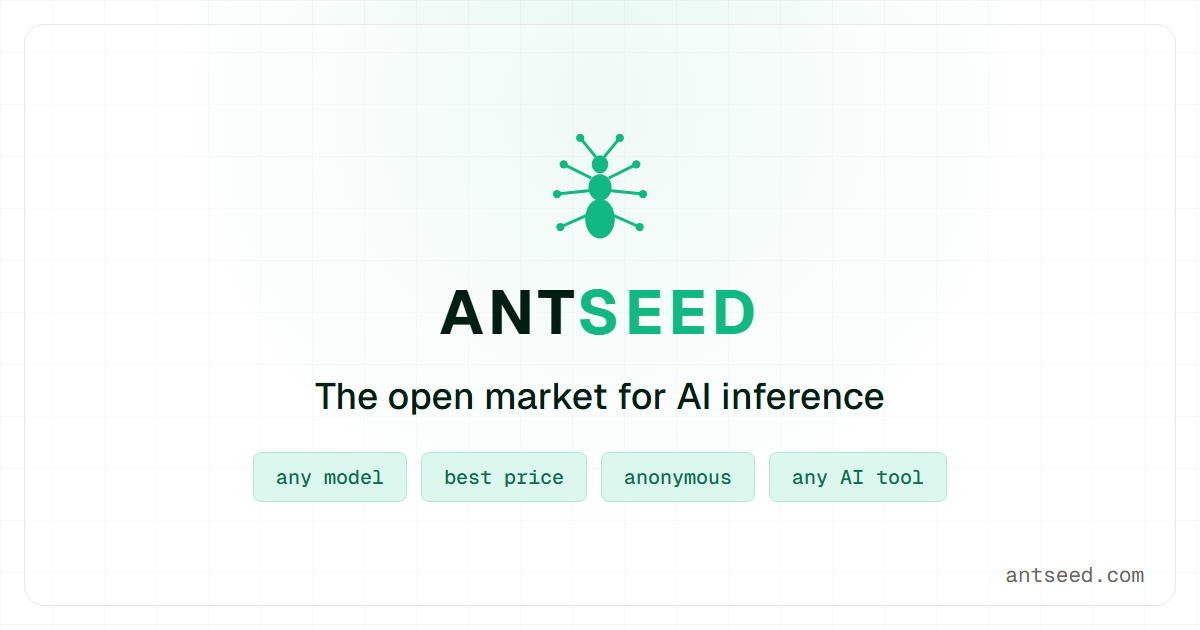
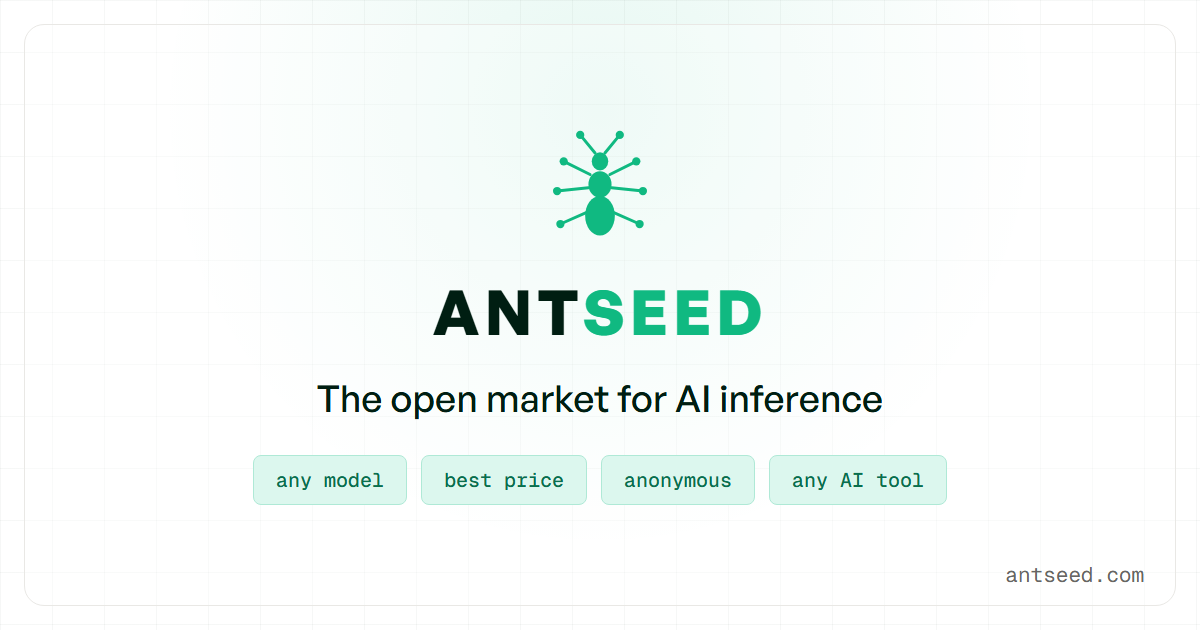
website: new share copy; let twitter:* inherit og:* per page
New share description (Marina's copy):

  AntSeed is the open market for AI inference. Every model, no middleman.
  No account, no email, no company reading your prompts or locking you
  out. Providers compete on price, you keep the tools you already use.
  Owned by no one. Available to everyone.

Applied to og:description on the homepage, where the share card is read.
At 249 characters it renders in full on Telegram and truncates on X,
LinkedIn and Facebook — accepted deliberately; Telegram is the primary
sharing channel.

`name=description` is the Google snippet and has a hard ~155 limit, so it
gets a tightened 151-char variant of the same message rather than a
mid-sentence cut.

Also removes twitter:title / twitter:description everywhere. A sitewide
value cannot be right on every page — /docs/faq was advertising the
homepage pitch on X while its og:description was correct. X falls back to
og:title / og:description when the twitter equivalents are absent, and
Docusaurus emits those correctly per page, so dropping them fixes the
mismatch and removes six declarations. twitter:card, twitter:site and
twitter:image stay; they have no og twin.

og-image.png rebuilt in General Sans, the site's actual display face
(loaded from Fontshare in `stylesheets`), instead of Geist.

diff --git a/apps/website/src/pages/index.tsx b/apps/website/src/pages/index.tsx
@@ -1379,15 +1379,16 @@ export default function Home(): JSX.Element {
   return (
     <Layout
       title={siteConfig.tagline}
-      description="The open market for AI inference. Every model, no middleman. Anonymous and always on. Pay per request - no account, no subscription."
+      description="The open market for AI inference. Every model, no middleman, no account, no email. Providers compete on price and you keep your tools. Owned by no one."
       wrapperClassName="homepage-wrapper">
       <Head>
         {/*
           Docusaurus derives og:title / og:description from the Layout title and
           description props above, which override the sitewide values in
           themeConfig.metadata. Declaring them here — after Layout's own tags —
-          is what makes the share card copy actually take effect. Keep these in
-          sync with the twitter:* values in docusaurus.config.ts.
+          is what makes the share card copy actually take effect. X falls back
+          to these when twitter:title / twitter:description are absent, which is
+          why those are not declared anywhere.
 
           rel=canonical and og:url need no declaration — Docusaurus already
           emits correct per-page values for both.
@@ -1395,7 +1396,7 @@ export default function Home(): JSX.Element {
         <meta property="og:title" content="Every AI model, best price, no middleman" />
         <meta
           property="og:description"
-          content="AntSeed is an open marketplace where providers compete on price to run any AI model. Use it anonymously, no account, in the AI tools you already use."
+          content="AntSeed is the open market for AI inference. Every model, no middleman. No account, no email, no company reading your prompts or locking you out. Providers compete on price, you keep the tools you already use. Owned by no one. Available to everyone."
         />
         <script type="application/ld+json">{JSON.stringify(orgLd)}</script>
         <script type="application/ld+json">{JSON.stringify(faqLd)}</script>

diff --git a/apps/website/docusaurus.config.ts b/apps/website/docusaurus.config.ts
@@ -149,9 +149,9 @@ const config: Config = {
   themeConfig: {
     metadata: [
       {name: 'google-site-verification', content: '09pzs5Q9kHdpQSNSBpr0vNh9SMq-T8lzhBgH5Zgm6ug'},
-      {name: 'description', content: 'AntSeed is an open marketplace where providers compete on price to run any AI model. Use it anonymously, no account, in the AI tools you already use.'},
+      {name: 'description', content: 'The open market for AI inference. Every model, no middleman, no account, no email. Providers compete on price and you keep your tools. Owned by no one.'},
       {property: 'og:title', content: 'Every AI model, best price, no middleman'},
-      {property: 'og:description', content: 'AntSeed is an open marketplace where providers compete on price to run any AI model. Use it anonymously, no account, in the AI tools you already use.'},
+      {property: 'og:description', content: 'AntSeed is the open market for AI inference. Every model, no middleman. No account, no email, no company reading your prompts or locking you out. Providers compete on price, you keep the tools you already use. Owned by no one. Available to everyone.'},
       {property: 'og:type', content: 'website'},
       {property: 'og:site_name', content: 'AntSeed'},
       {name: 'twitter:card', content: 'summary_large_image'},
@@ -161,8 +161,6 @@ const config: Config = {
       {property: 'og:image:width', content: '1200'},
       {property: 'og:image:height', content: '630'},
       {property: 'og:image:alt', content: 'AntSeed, the open market for AI inference'},
-      {name: 'twitter:title', content: 'Every AI model, best price, no middleman'},
-      {name: 'twitter:description', content: 'AntSeed is an open marketplace where providers compete on price to run any AI model. Use it anonymously, no account, in the AI tools you already use.'},
     ],
     colorMode: {
       defaultMode: 'light',

diff --git a/apps/website/src/integrations/IntegrationPage.tsx b/apps/website/src/integrations/IntegrationPage.tsx
@@ -610,7 +610,7 @@ export default function IntegrationPage({integration}: {integration: Integration
   const metaOneLiner = i.oneLiner.replace(/`/g, '');
 
   // Mirrors what Docusaurus renders into <title> (Layout title + site title), so
-  // og:title and twitter:title can't drift from the page title.
+  // og:title can't drift from the page title (X falls back to og:title).
   const pageTitle = `${i.name} | AntSeed`;
 
   // Marks up the breadcrumb rendered below so search engines read the hierarchy.
@@ -673,8 +673,6 @@ export default function IntegrationPage({integration}: {integration: Integration
         <link rel="alternate" type="text/markdown" href="/skill.md" title="Agent-readable integration guide" />
         <meta property="og:title" content={pageTitle} />
         <meta property="og:description" content={metaOneLiner} />
-        <meta name="twitter:title" content={pageTitle} />
-        <meta name="twitter:description" content={metaOneLiner} />
         <script type="application/ld+json">{JSON.stringify(breadcrumbLd)}</script>
         <script type="application/ld+json">{JSON.stringify(howToLd)}</script>
       </Head>

diff --git a/apps/website/src/pages/integrations.tsx b/apps/website/src/pages/integrations.tsx
@@ -163,8 +163,6 @@ export default function ConnectHub(): JSX.Element {
         />
         <meta property="og:title" content="Integrations | AntSeed" />
         <meta property="og:description" content="Every way to use AntSeed: coding agents, autonomous agents, editors, SDKs, frameworks, partner platforms. Anthropic and OpenAI compatible." />
-        <meta name="twitter:title" content="Integrations | AntSeed" />
-        <meta name="twitter:description" content="Every way to use AntSeed: coding agents, autonomous agents, editors, SDKs, frameworks, partner platforms. Anthropic and OpenAI compatible." />
         <script type="application/ld+json">
           {JSON.stringify({
             '@context': 'https://schema.org',
